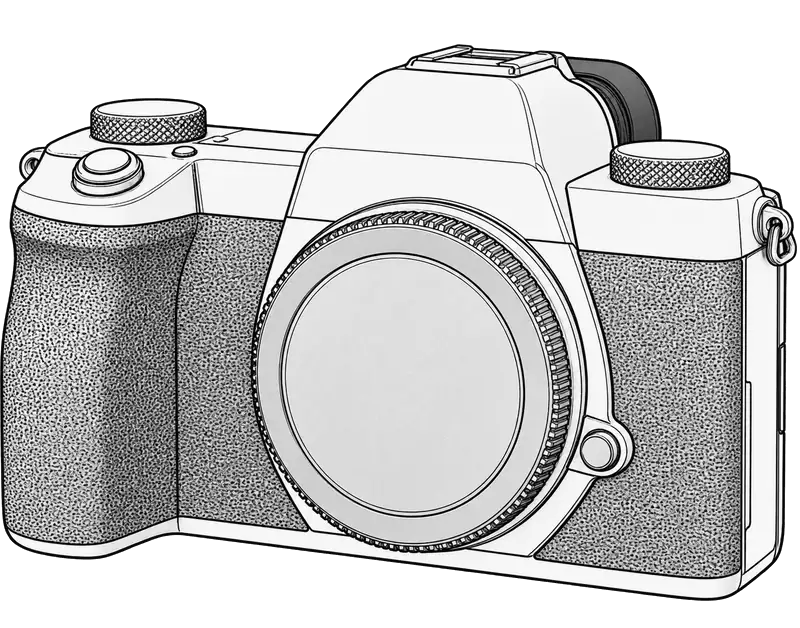
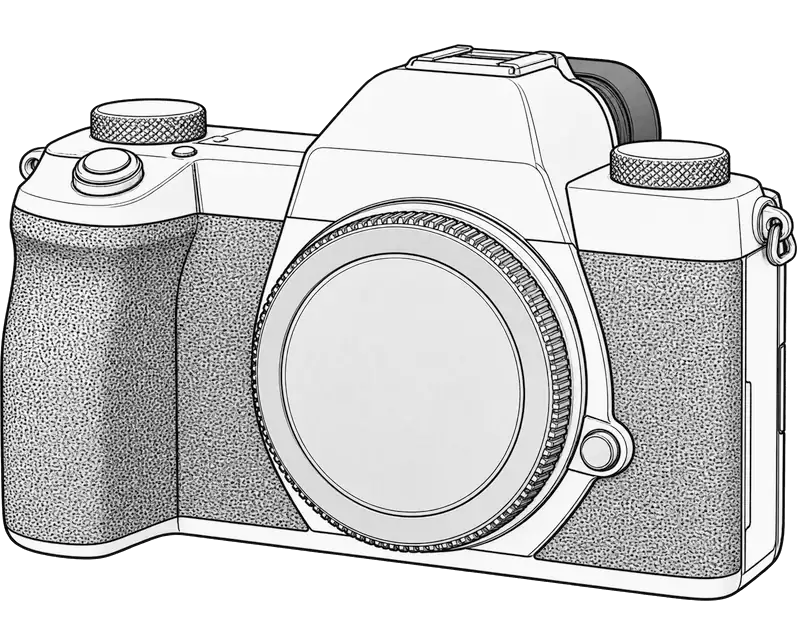
Camera art: even out stipple tone with a per-body gamma

diff --git a/tools/art/camera_art.py b/tools/art/camera_art.py
@@ -16,7 +16,10 @@ Never mirror one to fix that: it swaps the dials and the grip. Re-render it inst
 
 Framing matches the first X-T5 asset: an 800x628 canvas, the body fitted into the box
 x 0-796, y 21-623, centred. Light keeps the drawing's grey and alpha. Dark negates it and
-levels it to 24-225, the same alpha. Writes app/src/assets/camera/<id>-light.webp and
+levels it to 24-225, the same alpha. The drawings come back with uneven stipple: some bodies
+much darker than others. So each light image gets a gamma on its grey, solved so the mean ink
+(alpha x darkness, over the body) hits INK_TARGET. Gamma keeps black lines and white paper
+where they are and moves the mid-grey stipple. Dark derives from light, so it follows. Writes app/src/assets/camera/<id>-light.webp and
 <id>-dark.webp.
 """
 import argparse
@@ -49,6 +52,7 @@ W, H = 800, 628
 BOX = (0, 21, 797, 624)  # x0, y0, x1, y1 (exclusive) of the X-T5 body in the first asset
 ALPHA_FLOOR = 12  # alpha below this is generator speckle, cleared
 DARK_LO, DARK_HI = 24, 225
+INK_TARGET = 0.26  # mean ink over the body, 0 white to 1 black; about the bodies' average
 QUALITY = 62  # webp; keeps each file near 100 KB
 
 
@@ -106,6 +110,26 @@ def build(src: pathlib.Path, pick: str) -> Image.Image:
     return Image.fromarray(canvas, "LA")
 
 
+def ink(l: np.ndarray, a: np.ndarray) -> float:
+    body = a > 0
+    return float((a * (255 - l))[body].sum() / a[body].sum() / 255)
+
+
+def even_tone(img: Image.Image) -> Image.Image:
+    """Gamma on the grey so the body's mean ink is INK_TARGET; bisection on log gamma."""
+    la = np.array(img).astype(np.float32)
+    l, a = la[..., 0] / 255, la[..., 1]
+    lo, hi = np.log(0.25), np.log(4.0)
+    for _ in range(40):
+        g = (lo + hi) / 2
+        if ink(255 * l ** np.exp(g), a) < INK_TARGET:
+            lo = g
+        else:
+            hi = g
+    la[..., 0] = 255 * l ** np.exp((lo + hi) / 2)
+    return Image.fromarray(la.round().astype(np.uint8), "LA")
+
+
 def dark(img: Image.Image) -> Image.Image:
     la = np.array(img).astype(np.float32)
     la[..., 0] = DARK_LO + (255 - la[..., 0]) * (DARK_HI - DARK_LO) / 255
@@ -126,7 +150,7 @@ def main() -> None:
     for cid, (rel, pick) in SOURCES.items():
         if args.only and cid not in args.only:
             continue
-        light = build(args.src_root / rel, pick)
+        light = even_tone(build(args.src_root / rel, pick))
         save(light, OUT / f"{cid}-light.webp")
         save(dark(light), OUT / f"{cid}-dark.webp")
 
